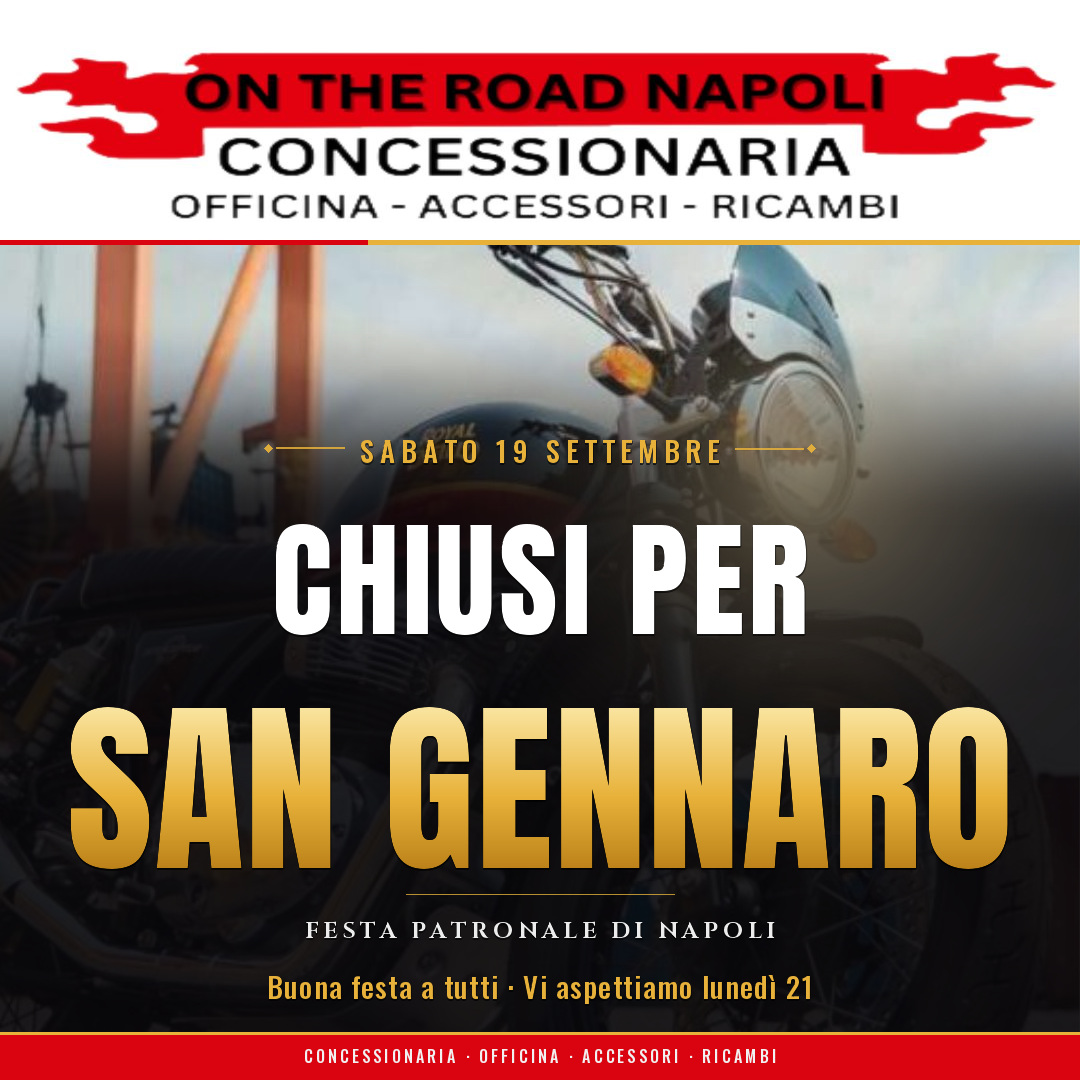
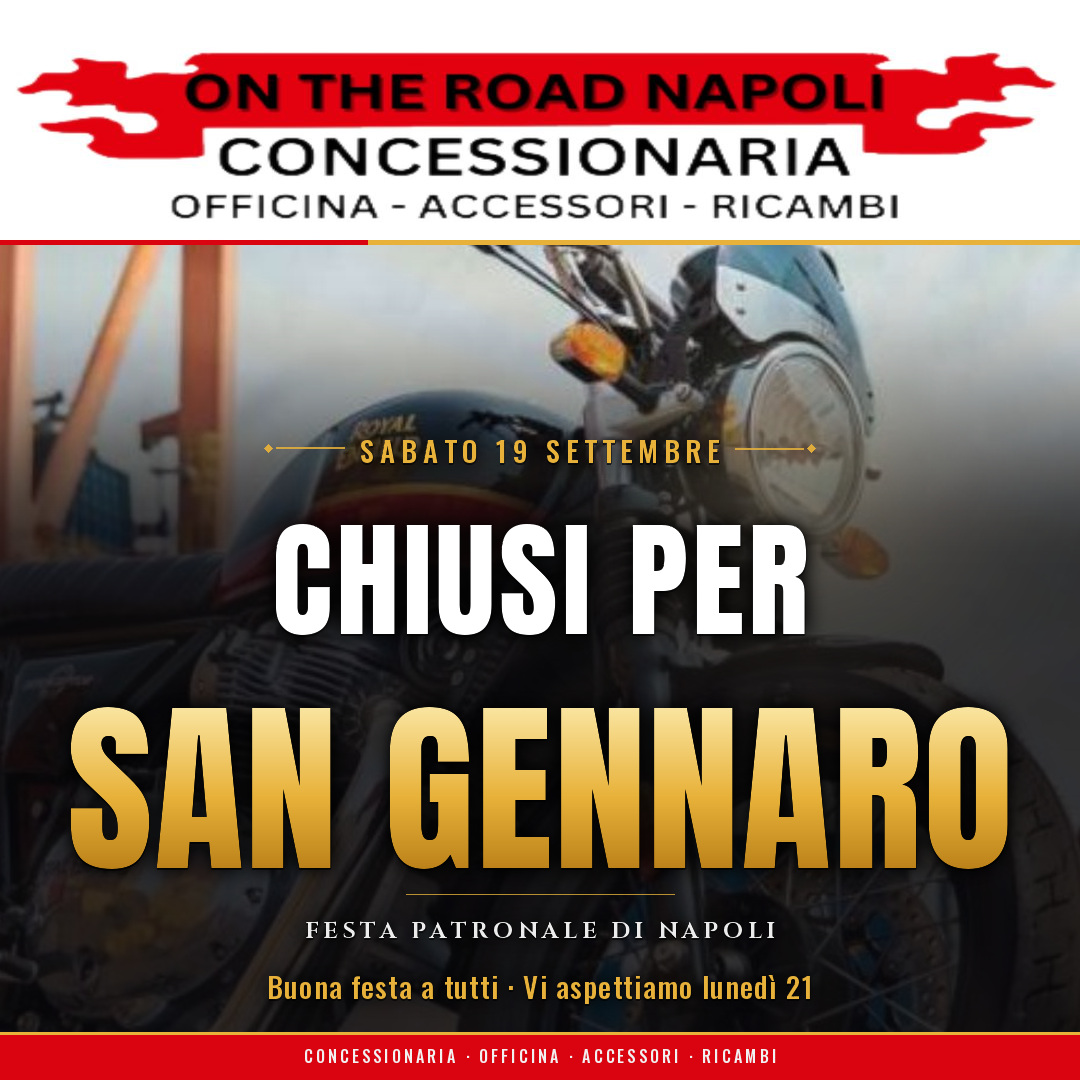
Locandine: moto piu' grande e leggibile, soprattutto nel 9:16
Nel formato verticale la moto occupava poco quadro e stava sotto una
velatura pesante. Tre interventi, applicati insieme perche' da soli si
annullano a vicenda:

- inquadratura stretta attorno al faro (campo zoom): la moto riempie il
  quadro invece di lasciare mezzo cielo vuoto;
- velatura piu' bassa e piu' leggera, con la sfumatura piu' lunga;
- alone sfocato ricavato dalle lettere stesse sotto il testo, che e' cio'
  che permette di alleggerire la velatura senza perdere leggibilita'.

Ritarata anche l'aureola sul faro: con la velatura piu' leggera non era
piu' contenuta e lasciava una macchia lattiginosa sul cielo del formato
quadrato. Lo zoom e' esteso anche a 4:5 e 1:1, che ne guadagnano uguale.

Testi, palette e regole editoriali invariati.

Claude-Session: https://claude.ai/code/session_01DBY9jt7n48v59ty5rcQHW5

diff --git a/locandine/locandina_san_gennaro.py b/locandine/locandina_san_gennaro.py
@@ -154,7 +154,7 @@ def raggiera(size, centro, header_h, n=24, alpha=52, inner=150, outer=1500):
     return _proteggi_logo(Image.fromarray(rgba, "RGBA"), header_h)
 
 
-def alone(size, centro, header_h, raggio=480, alpha=104):
+def alone(size, centro, header_h, raggio=430, alpha=74):
     """Alone caldo attorno al faro: il faro della moto diventa l'aureola."""
     W, H = size
     yy, xx = np.mgrid[0:H, 0:W]
@@ -163,6 +163,18 @@ def alone(size, centro, header_h, raggio=480, alpha=104):
     rgba[..., 0], rgba[..., 1], rgba[..., 2] = 255, 228, 168
     rgba[..., 3] = a.astype(np.uint8)
     return _proteggi_logo(Image.fromarray(rgba, "RGBA"), header_h)
+
+
+def alone_testo(maschera, raggio, alpha):
+    """Alone scuro sfocato ricavato dalle lettere.
+
+    Serve a tenere leggibile il testo senza affogare la foto: con questo la
+    velatura puo' scendere molto, e la moto resta visibile sotto il titolo.
+    """
+    sfoc = maschera.filter(ImageFilter.GaussianBlur(raggio))
+    out = Image.new("RGBA", maschera.size, (0, 0, 0, 0))
+    out.putalpha(sfoc.point(lambda v: min(int(v * alpha / 255) * 2, alpha)))
+    return out
 
 
 def velatura(size, inizio, pieno, picco=228):
@@ -184,11 +196,21 @@ def velatura(size, inizio, pieno, picco=228):
 
 
 # --- composizione ----------------------------------------------------------
-def costruisci(nome, size, header_h, faro_y, s, compatto, riapertura, debug=False):
+def costruisci(nome, size, header_h, faro_y, s, compatto, zoom, picco,
+               riapertura, debug=False):
     W, H = size
     foto = Image.open(SRC).convert("RGB")
     alto = H - header_h
-    taglio = max(0, min(FARO[1] - (faro_y - header_h), foto.height - alto))
+
+    # Il corpo della foto si ingrandisce e si ritaglia attorno al faro: cosi'
+    # la moto riempie il quadro invece di lasciare mezzo cielo vuoto.
+    corpo = foto.crop((0, SRC_HEADER, 1080, foto.height))
+    if zoom != 1.0:
+        corpo = corpo.resize((round(corpo.width * zoom), round(corpo.height * zoom)),
+                             Image.LANCZOS)
+    fx, fy = FARO[0] * zoom, (FARO[1] - SRC_HEADER) * zoom
+    tx = max(0, min(int(round(fx - FARO[0])), corpo.width - W))
+    ty = max(0, min(int(round(fy - (faro_y - header_h))), corpo.height - alto))
 
     # --- si misura il blocco di testo PRIMA di disegnare, cosi' si ancora da
     #     solo alla fascia rossa invece di finire fuori quadro ---
@@ -224,22 +246,28 @@ def costruisci(nome, size, header_h, faro_y, s, compatto, riapertura, debug=Fals
     if (W, header_h) != testata.size:
         testata = testata.resize((W, header_h), Image.LANCZOS)
     tela.paste(testata, (0, 0))
-    tela.paste(foto.crop((0, taglio, 1080, taglio + alto)), (0, header_h))
+    tela.paste(corpo.crop((tx, ty, tx + W, ty + alto)), (0, header_h))
     tela = tela.convert("RGBA")
 
-    faro = (FARO[0], FARO[1] - taglio + header_h)
-    inizio_vel = max(base_y - int(190 * s), header_h + 20)
-    pieno_vel = base_y + int(150 * s)
+    faro = (int(fx - tx), int(fy - ty + header_h))
+    inizio_vel = max(base_y - int(260 * s), header_h + 20)
+    pieno_vel = base_y + int(210 * s)
 
     tela.alpha_composite(raggiera((W, H), faro, header_h, outer=int(1500 * s ** .4)))
-    tela.alpha_composite(velatura((W, H), inizio_vel, pieno_vel))
+    tela.alpha_composite(velatura((W, H), inizio_vel, pieno_vel, picco))
     # l'aureola va DOPO la velatura, altrimenti la velatura la spegne proprio
     # dove serve: il faro sta sul bordo alto della sfumatura
-    tela.alpha_composite(alone((W, H), faro, header_h, raggio=int(480 * s ** .3)))
+    tela.alpha_composite(alone((W, H), faro, header_h, raggio=int(430 * s ** .3)))
 
     lay = Image.new("RGBA", (W, H), (0, 0, 0, 0))
     d = ImageDraw.Draw(lay)
+    masc = Image.new("L", (W, H), 0)          # solo le lettere, per l'alone
+    dm = ImageDraw.Draw(masc)
     cx = W / 2
+
+    def riga(y, testo, fnt, colore, tracking, ombre=None):
+        scrivi(dm, cx, y, testo, fnt, 255, tracking)
+        scrivi(d, cx, y, testo, fnt, colore, tracking, ombre)
 
     # filetto oro sotto il logo, con innesto rosso del marchio
     fil = max(int(7 * s), 3)
@@ -252,7 +280,7 @@ def costruisci(nome, size, header_h, faro_y, s, compatto, riapertura, debug=Fals
     # --- occhiello: ◆——  SABATO 19 SETTEMBRE  ——◆
     tr = 9 * s
     wk, _ = misura(KICKER, f_k, tr)
-    scrivi(d, cx, y, KICKER, f_k, ORO + (255,), tr, ombra)
+    riga(y, KICKER, f_k, ORO + (255,), tr, ombra)
     ym = y + int(30 * s)
     for sgn in (-1, 1):
         x0 = cx + sgn * (wk / 2 + int(26 * s))
@@ -265,7 +293,7 @@ def costruisci(nome, size, header_h, faro_y, s, compatto, riapertura, debug=Fals
     y += int(86 * s)
 
     # --- CHIUSI PER
-    scrivi(d, cx, y, RIGA1, f1, BIANCO + (255,), 6 * s, ombra)
+    riga(y, RIGA1, f1, BIANCO + (255,), 6 * s, ombra)
     y += int(h1 + 22 * s)
 
     # --- SAN GENNARO, in oro
@@ -276,6 +304,7 @@ def costruisci(nome, size, header_h, faro_y, s, compatto, riapertura, debug=Fals
         sh = Image.new("RGBA", blocco.size, col[:3] + (0,))
         sh.putalpha(m.point(lambda v: int(v * col[3] / 255)))
         lay.alpha_composite(sh, (int(dx), int(y + dy)))
+    scrivi(dm, cx, y, RIGA2, f2, 255, 2 * s)
     lay.alpha_composite(blocco, (0, int(y)))
     y += int(h2 + 40 * s)
 
@@ -283,12 +312,12 @@ def costruisci(nome, size, header_h, faro_y, s, compatto, riapertura, debug=Fals
     d.line([(cx - int(210 * s), y), (cx + int(210 * s), y)], fill=ORO + (200,),
            width=max(int(2 * s), 1))
     y += int(34 * s)
-    scrivi(d, cx, y, RIGA3, f3, (255, 255, 255, 235), 7 * s, ombra)
+    riga(y, RIGA3, f3, (255, 255, 255, 235), 7 * s, ombra)
     y += int(78 * s)
 
     # --- augurio (+ riapertura)
     for i, (t, f, col) in enumerate(coda):
-        scrivi(d, cx, y, t, f, col, 2 * s, ombra)
+        riga(y, t, f, col, 2 * s, ombra)
         y += int(62 * s) if i == 0 else 0
 
     # --- fascia rossa di chiusura. Non porta informazioni indispensabili: e'
@@ -300,21 +329,22 @@ def costruisci(nome, size, header_h, faro_y, s, compatto, riapertura, debug=Fals
     scrivi(d, cx, H - fb + (fb - (bf[3] - bf[1])) / 2 - bf[1], FOOTER, f_f,
            (255, 255, 255, 240), 5 * s)
 
+    tela.alpha_composite(alone_testo(masc, max(int(17 * s), 6), 170))
     tela.alpha_composite(lay)
     fuori = os.path.join(OUT, nome)
     tela.convert("RGB").save(fuori, quality=94, subsampling=0)
     if debug:
-        print(f"      testata={header_h} taglio={taglio} faro_y={faro[1]} "
+        print(f"      testata={header_h} zoom={zoom} faro=({faro[0]},{faro[1]}) "
               f"velatura={inizio_vel}..{pieno_vel} testo={base_y}..{base_y + blocco_h}")
     print(f"  {nome}  {W}x{H}  {os.path.getsize(fuori) / 1024:.0f} KB")
     return fuori
 
 
 FORMATI = {
-    # nome        dimensioni   testata faro_y scala compatto   dove si usa
-    "story":  ((1080, 1920), 320, 1047, 1.00, False),   # storie e reel 9:16
-    "feed":   ((1080, 1350), 280,  560, 0.76, False),   # post in bacheca 4:5
-    "quadro": ((1080, 1080), 240,  470, 0.64, True),    # quadrato 1:1
+    # nome        dimensioni  testata faro_y scala compatto zoom  velatura
+    "story":  ((1080, 1920), 320, 880, 1.00, False, 1.24, 178),  # storie/reel 9:16
+    "feed":   ((1080, 1350), 280, 560, 0.76, False, 1.12, 200),  # bacheca 4:5
+    "quadro": ((1080, 1080), 240, 470, 0.64, True,  1.18, 205),  # quadrato 1:1
 }
 
 if __name__ == "__main__":
@@ -327,8 +357,6 @@ if __name__ == "__main__":
             scelti.append(a)
     print("Locandina San Gennaro — On The Road Napoli")
     for nome in (scelti or list(FORMATI)):
-        size, hh, fy, s, comp = FORMATI[nome]
-        costruisci(f"san-gennaro-{nome}.jpg", size, hh, fy, s, comp, riap, debug=True)
+        costruisci(f"san-gennaro-{nome}.jpg", *FORMATI[nome], riap, debug=True)
     if not scelti:
-        size, hh, fy, s, comp = FORMATI["story"]
-        costruisci("san-gennaro-story-senza-riapertura.jpg", size, hh, fy, s, comp, "")
+        costruisci("san-gennaro-story-senza-riapertura.jpg", *FORMATI["story"], "")

diff --git a/locandine/README.md b/locandine/README.md
@@ -36,7 +36,12 @@ I font (licenza SIL OFL) stanno in `fonts/`. La foto sorgente in `assets/`.
   incollata in cima, con un filetto oro e un innesto rosso a separarla.
 - **Il faro è il perno.** Il taglio della foto si ancora al faro, non a una
   riga fissa: da lì partono la raggiera e l'aureola dorata, e il faro della
-  moto fa da nimbo.
+  moto fa da nimbo. Il campo `zoom` stringe l'inquadratura attorno allo stesso
+  punto, così la moto riempie il quadro invece di lasciare mezzo cielo vuoto.
+- **Il testo si regge su un alone sfocato, non sul buio.** Sotto le lettere
+  c'è la loro stessa maschera sfocata in nero. È questo che permette alla
+  velatura di scendere molto: senza, per rendere leggibile il titolo bisogna
+  affogare la moto.
 - **Palette dal marchio.** Il rosso `#DA0411` è campionato dalle fiamme del
   logo, non scelto a occhio. L'oro richiama il busto del santo.
 - **Niente testo critico nella fascia bassa.** È la zona che Instagram e TikTok
@@ -58,6 +63,9 @@ I font (licenza SIL OFL) stanno in `fonts/`. La foto sorgente in `assets/`.
   della sfumatura: se finisce sotto, si spalma dietro al testo e sembra nebbia.
 - **La riga unita dei formati compatti si gonfiava** fino a sovrastare il resto:
   l'adattamento alla larghezza vuole un tetto alla dimensione nominale.
+- **Alleggerendo la velatura, l'aureola non è più contenuta** e slava il quadro:
+  nel formato quadrato usciva una macchia lattiginosa sul cielo. Velatura e
+  aureola vanno ritarate insieme, mai una sola delle due.
 
 ## Note editoriali
 
